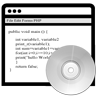
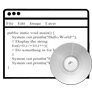
content image and news block update
content image and news block update 20160620

diff --git a/resources/css/creative.css b/resources/css/creative.css
@@ -350,7 +350,7 @@ article .post-heading h3 a:hover {
 }
 
 article p{
-font-size:12px;	
+font-size:14px;	
 }
 
 .widget p{
